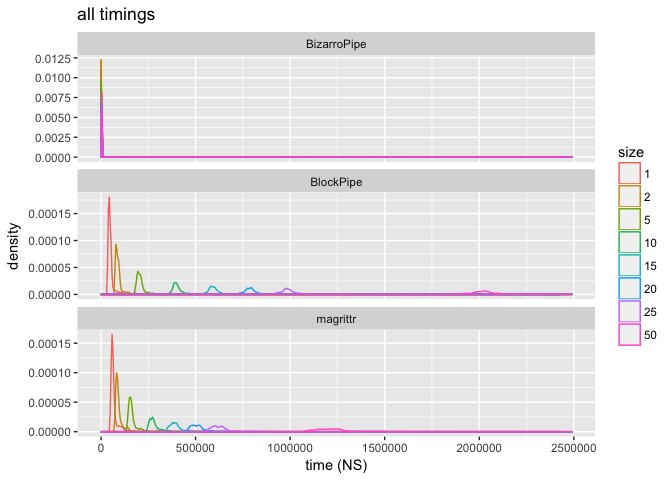
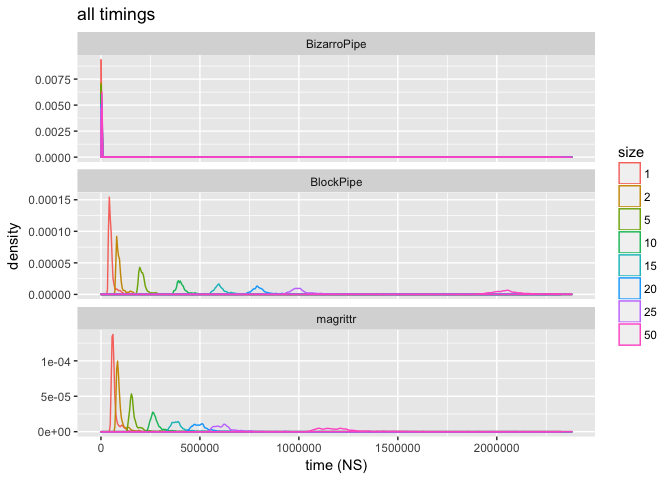
edit

diff --git a/extras/PipePerformance.md b/extras/PipePerformance.md
@@ -4,7 +4,7 @@ Keep in mind for any *serious* application the calculation time on data will far
 
 So we will compare:
 
--   `magrittr*` `magrittr::%>%` substitution (`"langsubs"` mode).
+-   `magrittr*` `magrittr::%>%` substitution.
 -   `BlockPipe*` `wrapr::%.>%` substitution.
 -   `BizarroPipe*` `%->%` substitution.
 
@@ -52,55 +52,55 @@ print(bm)
 
     ## Unit: nanoseconds
     ##              expr     min        lq        mean    median        uq
-    ##      magrittr_1()   48316   56863.5   71918.921   61732.0   68562.5
-    ##     BlockPipe_1()   36188   40672.0   51832.013   45501.0   51681.0
-    ##   BizarroPipe_1()     215    1202.0    2649.251    1499.5    1716.0
-    ##      magrittr_2()   71377   81419.0  104181.351   87758.0   97293.5
-    ##     BlockPipe_2()   72621   79839.5   98994.105   87460.5   95898.0
-    ##   BizarroPipe_2()     285    1330.0    3178.745    1562.5    1781.5
-    ##      magrittr_5()  136134  150771.5  179633.412  158906.5  170897.5
-    ##     BlockPipe_5()  177867  194641.5  229294.372  205080.0  218190.0
-    ##   BizarroPipe_5()     430    1538.0    4820.808    1802.5    2072.0
-    ##     magrittr_10()  236352  261990.5  311903.153  275393.0  296058.0
-    ##    BlockPipe_10()  355982  388542.5  453868.735  401087.5  425110.0
-    ##  BizarroPipe_10()     592    1938.5    8435.338    2275.0    2565.0
-    ##     magrittr_15()  339805  373938.0  429188.069  392308.0  414505.0
-    ##    BlockPipe_15()  540752  581177.0  665545.786  598609.5  631430.0
-    ##  BizarroPipe_15()     739    2141.5    9748.042    2485.0    2846.0
-    ##     magrittr_20()  443719  484255.5  555749.624  508877.5  534431.5
-    ##    BlockPipe_20()  722703  775043.5  934686.442  796800.0  849892.5
-    ##  BizarroPipe_20()     920    2224.0   13782.476    2569.0    2860.0
-    ##     magrittr_25()  543337  596900.5  696679.241  625698.5  657863.5
-    ##    BlockPipe_25()  905433  972366.0 1099549.149  996390.0 1059284.0
-    ##  BizarroPipe_25()    1078    2343.0   15486.176    2676.0    3013.5
-    ##     magrittr_50() 1050546 1167667.5 1381823.729 1230680.5 1312081.5
-    ##    BlockPipe_50() 1875207 1999466.0 2321478.087 2050035.0 2255573.5
-    ##  BizarroPipe_50()    1911    3511.5   32795.268    3817.0    4219.0
+    ##      magrittr_1()   48358   56814.5   72349.506   61707.0   69379.5
+    ##     BlockPipe_1()   36342   41260.0   56146.992   46720.5   53388.5
+    ##   BizarroPipe_1()     228    1151.5    2782.532    1502.0    1746.5
+    ##      magrittr_2()   71794   81523.0  101974.503   87467.0   97218.0
+    ##     BlockPipe_2()   72715   80186.0  101620.186   87832.5   97135.5
+    ##   BizarroPipe_2()     285    1219.0    3968.133    1683.5    1954.0
+    ##      magrittr_5()  133230  150451.0  178406.139  158425.0  172480.0
+    ##     BlockPipe_5()  180786  196797.5  230460.008  206686.5  219939.0
+    ##   BizarroPipe_5()     403    1521.0    5205.534    1947.0    2217.0
+    ##     magrittr_10()  228767  257994.5  300887.610  269757.0  287901.0
+    ##    BlockPipe_10()  363061  390542.0  454202.538  403860.0  426440.0
+    ##  BizarroPipe_10()     563    1750.5    8387.110    2201.0    2488.5
+    ##     magrittr_15()  332266  365863.5  431704.700  385408.5  409156.0
+    ##    BlockPipe_15()  542296  585688.5  662728.176  602371.5  636772.5
+    ##  BizarroPipe_15()     723    1693.5   11088.090    2235.0    2567.0
+    ##     magrittr_20()  430662  475124.5  567997.874  502081.0  531365.5
+    ##    BlockPipe_20()  724692  780434.0  931520.994  801213.0  840898.5
+    ##  BizarroPipe_20()     888    2220.0   14462.785    2648.5    2968.5
+    ##     magrittr_25()  536797  588008.5  754831.838  620143.5  651944.5
+    ##    BlockPipe_25()  912201  978554.0 1103072.255 1005178.5 1066836.0
+    ##  BizarroPipe_25()    1059    2115.0   28047.781    2592.5    2928.0
+    ##     magrittr_50() 1042338 1129140.5 1337114.485 1192483.0 1266367.5
+    ##    BlockPipe_50() 1893602 2015447.5 2274265.264 2066250.5 2212909.5
+    ##  BizarroPipe_50()    1879    3180.0   44393.499    3676.0    4080.5
     ##       max neval
-    ##   1782173  1000
-    ##   1386379  1000
-    ##   1174959  1000
-    ##   6486205  1000
-    ##   2238536  1000
-    ##   1630916  1000
-    ##   3608155  1000
-    ##   5634863  1000
-    ##   3025855  1000
-    ##   6809934  1000
-    ##   7337348  1000
-    ##   6203739  1000
-    ##  11147581  1000
-    ##  10443111  1000
-    ##   7231721  1000
-    ##  16495116  1000
-    ##  51263425  1000
-    ##  11244890  1000
-    ##  16673522  1000
-    ##  16526137  1000
-    ##  12824831  1000
-    ##  41544571  1000
-    ##  53038127  1000
-    ##  28947926  1000
+    ##   1628357  1000
+    ##   2025437  1000
+    ##   1356623  1000
+    ##   3593319  1000
+    ##   3053381  1000
+    ##   2368036  1000
+    ##   4441564  1000
+    ##   4904597  1000
+    ##   3311099  1000
+    ##   8014501  1000
+    ##  15922508  1000
+    ##   6281205  1000
+    ##  12333099  1000
+    ##  12920280  1000
+    ##   8917189  1000
+    ##  24491607  1000
+    ##  52400881  1000
+    ##  11888527  1000
+    ##  50495117  1000
+    ##  26841575  1000
+    ##  25494753  1000
+    ##  50034871  1000
+    ##  48635167  1000
+    ##  40718551  1000
 
 ``` r
 autoplot(bm)
@@ -159,10 +159,10 @@ dfits$fn <- names(fits)
 print(dfits)
 ```
 
-    ##   Intercept       size          fn
-    ## 1   1650.97   606.9402 BizarroPipe
-    ## 2  -6002.64 46119.2954   BlockPipe
-    ## 3  41395.86 26561.8020    magrittr
+    ##    Intercept       size          fn
+    ## 1   785.8486   875.3803 BizarroPipe
+    ## 2  3687.7523 45191.5187   BlockPipe
+    ## 3 50560.1921 26099.8837    magrittr
 
 ``` r
 # solve for size where two lines interesect.
@@ -180,4 +180,15 @@ crossingPoint <- solve(dfits, 'BlockPipe', 'magrittr')
 print(crossingPoint)
 ```
 
-    ## [1] 2.423547
+    ## [1] 2.45513
+
+``` r
+ratio <- dfits$size[dfits$fn=='BlockPipe'] / dfits$size[dfits$fn=='magrittr']
+print(ratio)
+```
+
+    ## [1] 1.731484
+
+Overall:
+
+BlockPipe is about 2 times slower than magrittr on large pipelines.
